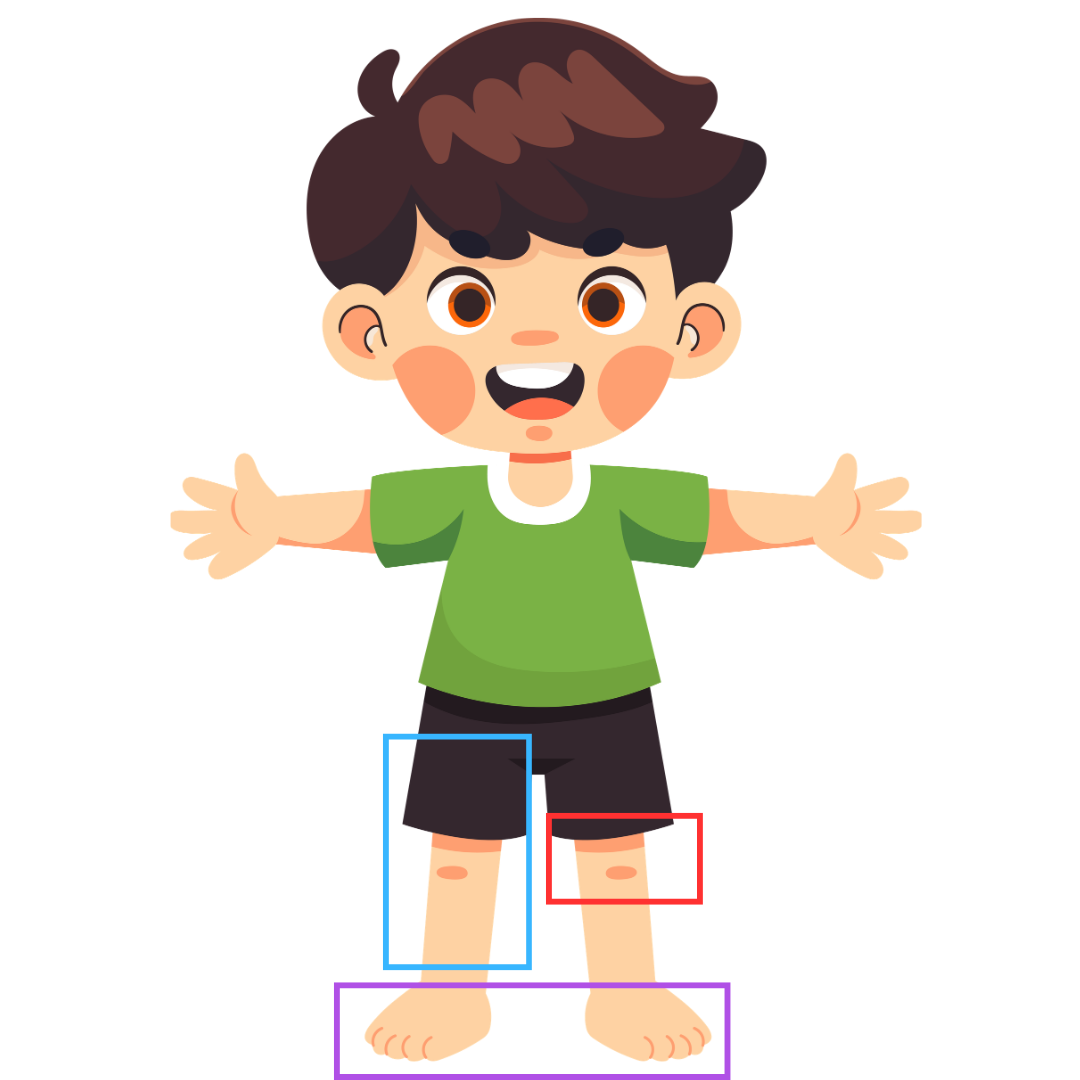
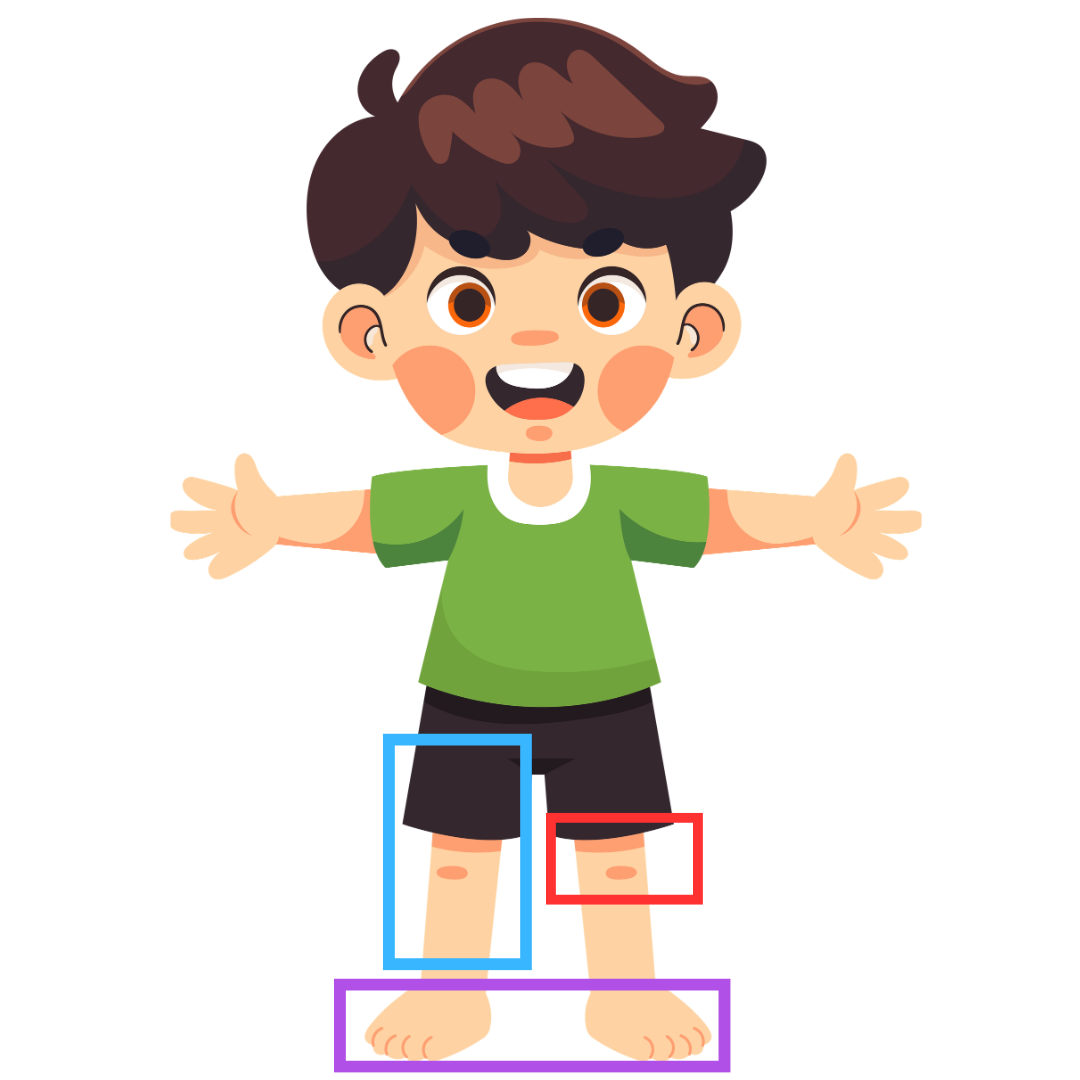
some changes progbar

diff --git a/components/cardsbutton.py b/components/cardsbutton.py
@@ -4,10 +4,11 @@
 import os
 
 from PySide6.QtCore import Qt
-from PySide6.QtWidgets import QPushButton, QVBoxLayout, QLabel
+from PySide6.QtWidgets import QPushButton, QVBoxLayout, QLabel, QProgressBar
 from PySide6.QtGui import QPixmap, QColor
 from themes.colors import *
 from assets.image import *
+from themes.fonts import BODY_FONT
 
 BASE_DIR = os.path.dirname(os.path.abspath(__file__))
 ASSETS_DIR = os.path.abspath(os.path.join(BASE_DIR, "..", "assets", "image"))
@@ -21,7 +22,7 @@ class CardsButton(QPushButton):
         pressed_color = base.darker(115).name()
 
 
-        self.setFixedSize(240, 240)
+        self.setFixedSize(260, 260)
         self.setStyleSheet(f"""
             QPushButton {{
                 background-color: {color};           
@@ -64,4 +65,31 @@ class CardsButton(QPushButton):
      
         card_layout.addWidget(self.image_label)
         card_layout.addWidget(self.title_label)
+
+        self.prog_bar = QProgressBar()
+        self.prog_bar.setAttribute(Qt.WA_TransparentForMouseEvents, True)
+        self.prog_bar.setAlignment(Qt.AlignmentFlag.AlignCenter)
+        self.prog_bar.setRange(0, 100)
+        self.prog_bar.setValue(30)
+        self.prog_bar.setFixedHeight(18)
+        self.prog_bar.setTextVisible(True)  
+
+        self.prog_bar.setStyleSheet(f"""
+            QProgressBar {{
+                height: 18px;
+                width: 14px;
+                border-radius: 9px;
+                font-size: 12px;
+                font-weight: 600;
+                font-family: {BODY_FONT};
+                text-align: center;
+                color: {HONEY_YELLOW};
+            }}
+            QProgressBar::chunk {{
+                background-color: {YELLOW};
+                border-radius: 9px;
+            }}
+        """)
+        
+        card_layout.addWidget(self.prog_bar)
         

diff --git a/screens/kinder_dashboard.py b/screens/kinder_dashboard.py
@@ -145,10 +145,9 @@ class KinderDashboard(QWidget):
         main_layout.addLayout(grid_layout)
         main_layout.addStretch()
 
-
-
     def showEvent(self, event):
         self.play_instruction_sound()
+        self.load_dropdown_students()
         super().showEvent(event)
 
     def hideEvent(self, event):
@@ -166,10 +165,7 @@ class KinderDashboard(QWidget):
 
     def stop_instruction_sound(self):
         self.instruction_player.stop()
-
-    def showEvent(self, event):
-        super().showEvent(event)
-        self.load_dropdown_students()
+        
 
     def load_dropdown_students(self):
         """Populates the dropdown with students belonging to the active teacher."""

diff --git a/features/pnk_module/pnk_games/mukhasample.py b/features/pnk_module/pnk_games/mukhasample.py
@@ -251,7 +251,7 @@ class MukhaGameSample(QWidget):
             target_word="buhok", border_color=SKY_BLUE
         )
         self.bibig_db = LabelDropBox(
-            target_word="bibig", border_color=ELECTRIC_VIOLET
+            target_word="bibig", border_color=BLUE_VIOLET
         )
         self.ilong_db = LabelDropBox(target_word="ilong", border_color=GREEN)
 

diff --git a/screens/grade1_dashboard.py b/screens/grade1_dashboard.py
@@ -33,7 +33,7 @@ class GradeOneDashboard(QWidget):
         main_layout.setContentsMargins(60, 60, 60, 0)
         
         top_layout = QHBoxLayout()
-        top_layout.setAlignment(Qt.AlignmentFlag.AlignLeft)
+        top_layout.setAlignment(Qt.AlignmentFlag.AlignCenter)
         main_layout.addLayout(top_layout)
 
         back_btn = QPushButton()
